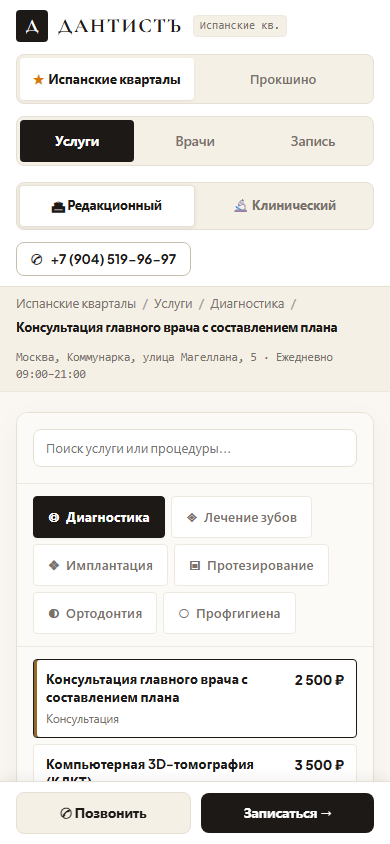
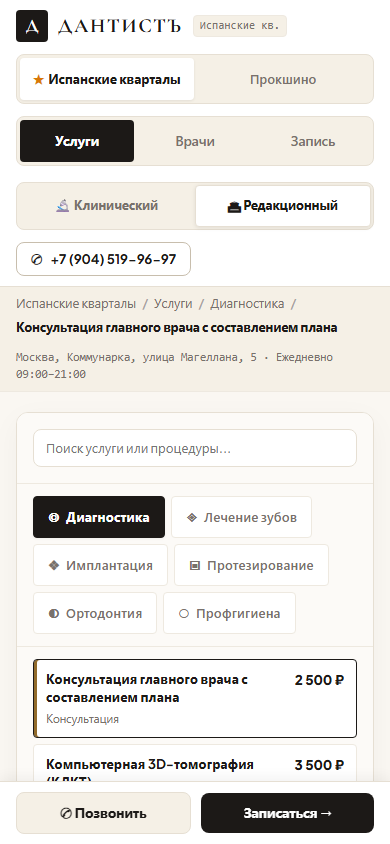
feat(atlas): set unified Clinical art direction standard

Changed region(s): [[0.0308, 0.2156, 0.9538, 0.2773]]

diff --git a/atlas/assets/js/atlas-engine.js b/atlas/assets/js/atlas-engine.js
@@ -27,7 +27,7 @@
     catId: 'diagnostics',
     procId: 'consult-head',
     docSlug: null,
-    theme: 'editorial', // 'editorial' | 'clinical' (GATE 3 Art Direction)
+    theme: 'clinical', // Unified High-Tech Clinical standard (Carl Zeiss emerald, Manrope, graphite)
     searchQuery: '',
     modalOpen: false,
     modalContext: null,
@@ -117,16 +117,16 @@
       state.branch = 'ispanskie';
     }
 
-    // Theme (GATE 3 Art Direction with Smart Branch Default REV-011)
+    // Theme (Unified High-Tech Clinical Standard)
     if (themeParam) {
       if (['editorial', 'clinical'].includes(themeParam)) {
         state.theme = themeParam;
       } else {
-        state.theme = (state.branch === 'prokshino') ? 'clinical' : 'editorial';
+        state.theme = 'clinical';
         invalid = true;
       }
     } else {
-      state.theme = (state.branch === 'prokshino') ? 'clinical' : 'editorial';
+      state.theme = 'clinical';
     }
 
     // View / Pathway
@@ -627,12 +627,11 @@
       });
     }
 
-    // Branch Switches (with Smart Art Direction Default REV-011)
+    // Branch Switches (Unified Clinical Art Direction)
     if (el.btnBranchIspanskie) {
       el.btnBranchIspanskie.addEventListener('click', () => {
         if (state.branch === 'ispanskie') return;
         state.branch = 'ispanskie';
-        state.theme = 'editorial';
         syncUrl();
         renderHeaderAndRibbon();
         renderServices();
@@ -645,7 +644,6 @@
       el.btnBranchProkshino.addEventListener('click', () => {
         if (state.branch === 'prokshino') return;
         state.branch = 'prokshino';
-        state.theme = 'clinical';
         syncUrl();
         renderHeaderAndRibbon();
         renderServices();

diff --git a/atlas/index.html b/atlas/index.html
@@ -11,7 +11,7 @@
   <link rel="stylesheet" href="assets/css/atlas-wireframe.css">
   <link rel="stylesheet" href="assets/css/atlas-themes.css">
 </head>
-<body class="theme-editorial">
+<body class="theme-clinical">
 
   <!-- Top System Bar -->
   <header class="atlas-topbar" role="banner">
@@ -48,13 +48,13 @@
         </button>
       </nav>
 
-      <!-- GATE 3: Art Direction Switcher (Editorial vs Clinical) -->
+      <!-- GATE 3: Art Direction Switcher (Clinical Standard vs Editorial Mode) -->
       <nav class="theme-switcher-bar" aria-label="Выбор художественного направления">
-        <button type="button" class="theme-switch-btn is-active" id="themeBtnEditorial" data-theme-val="editorial">
-          <span>🏛 Редакционный</span>
-        </button>
-        <button type="button" class="theme-switch-btn" id="themeBtnClinical" data-theme-val="clinical">
+        <button type="button" class="theme-switch-btn is-active" id="themeBtnClinical" data-theme-val="clinical">
           <span>🔬 Клинический</span>
+        </button>
+        <button type="button" class="theme-switch-btn" id="themeBtnEditorial" data-theme-val="editorial">
+          <span>🏛 Редакционный</span>
         </button>
       </nav>
 
